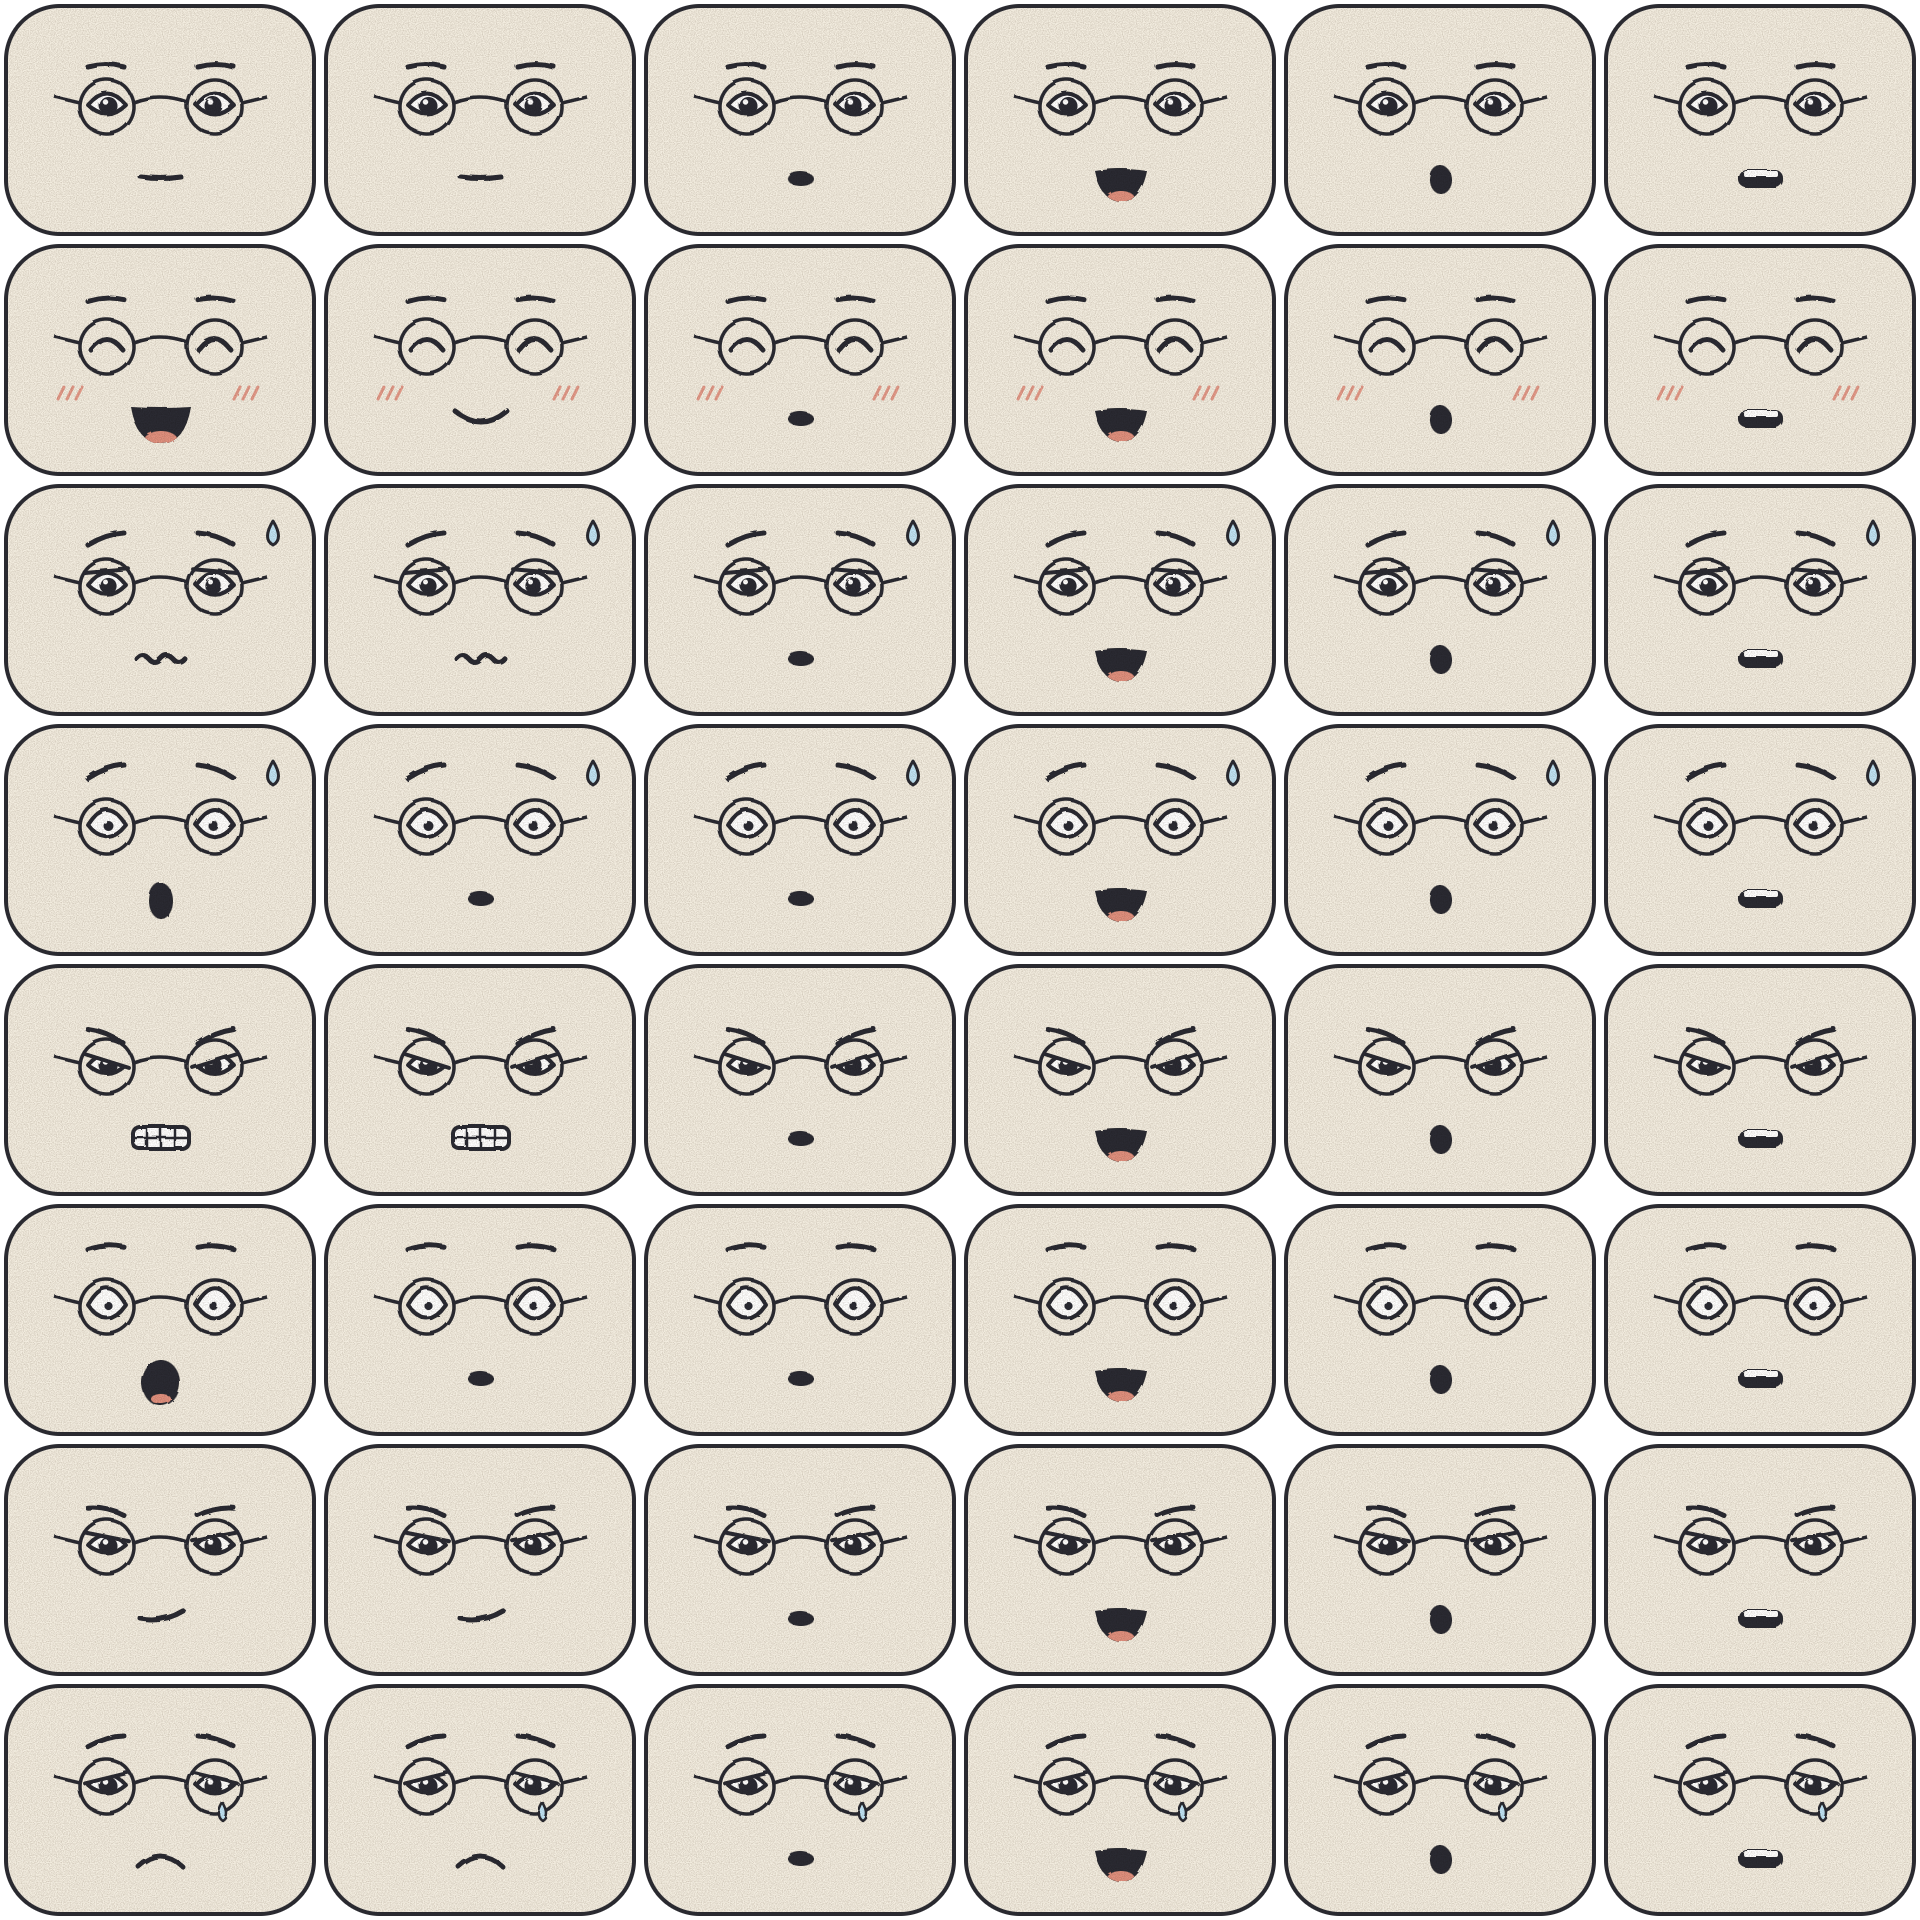
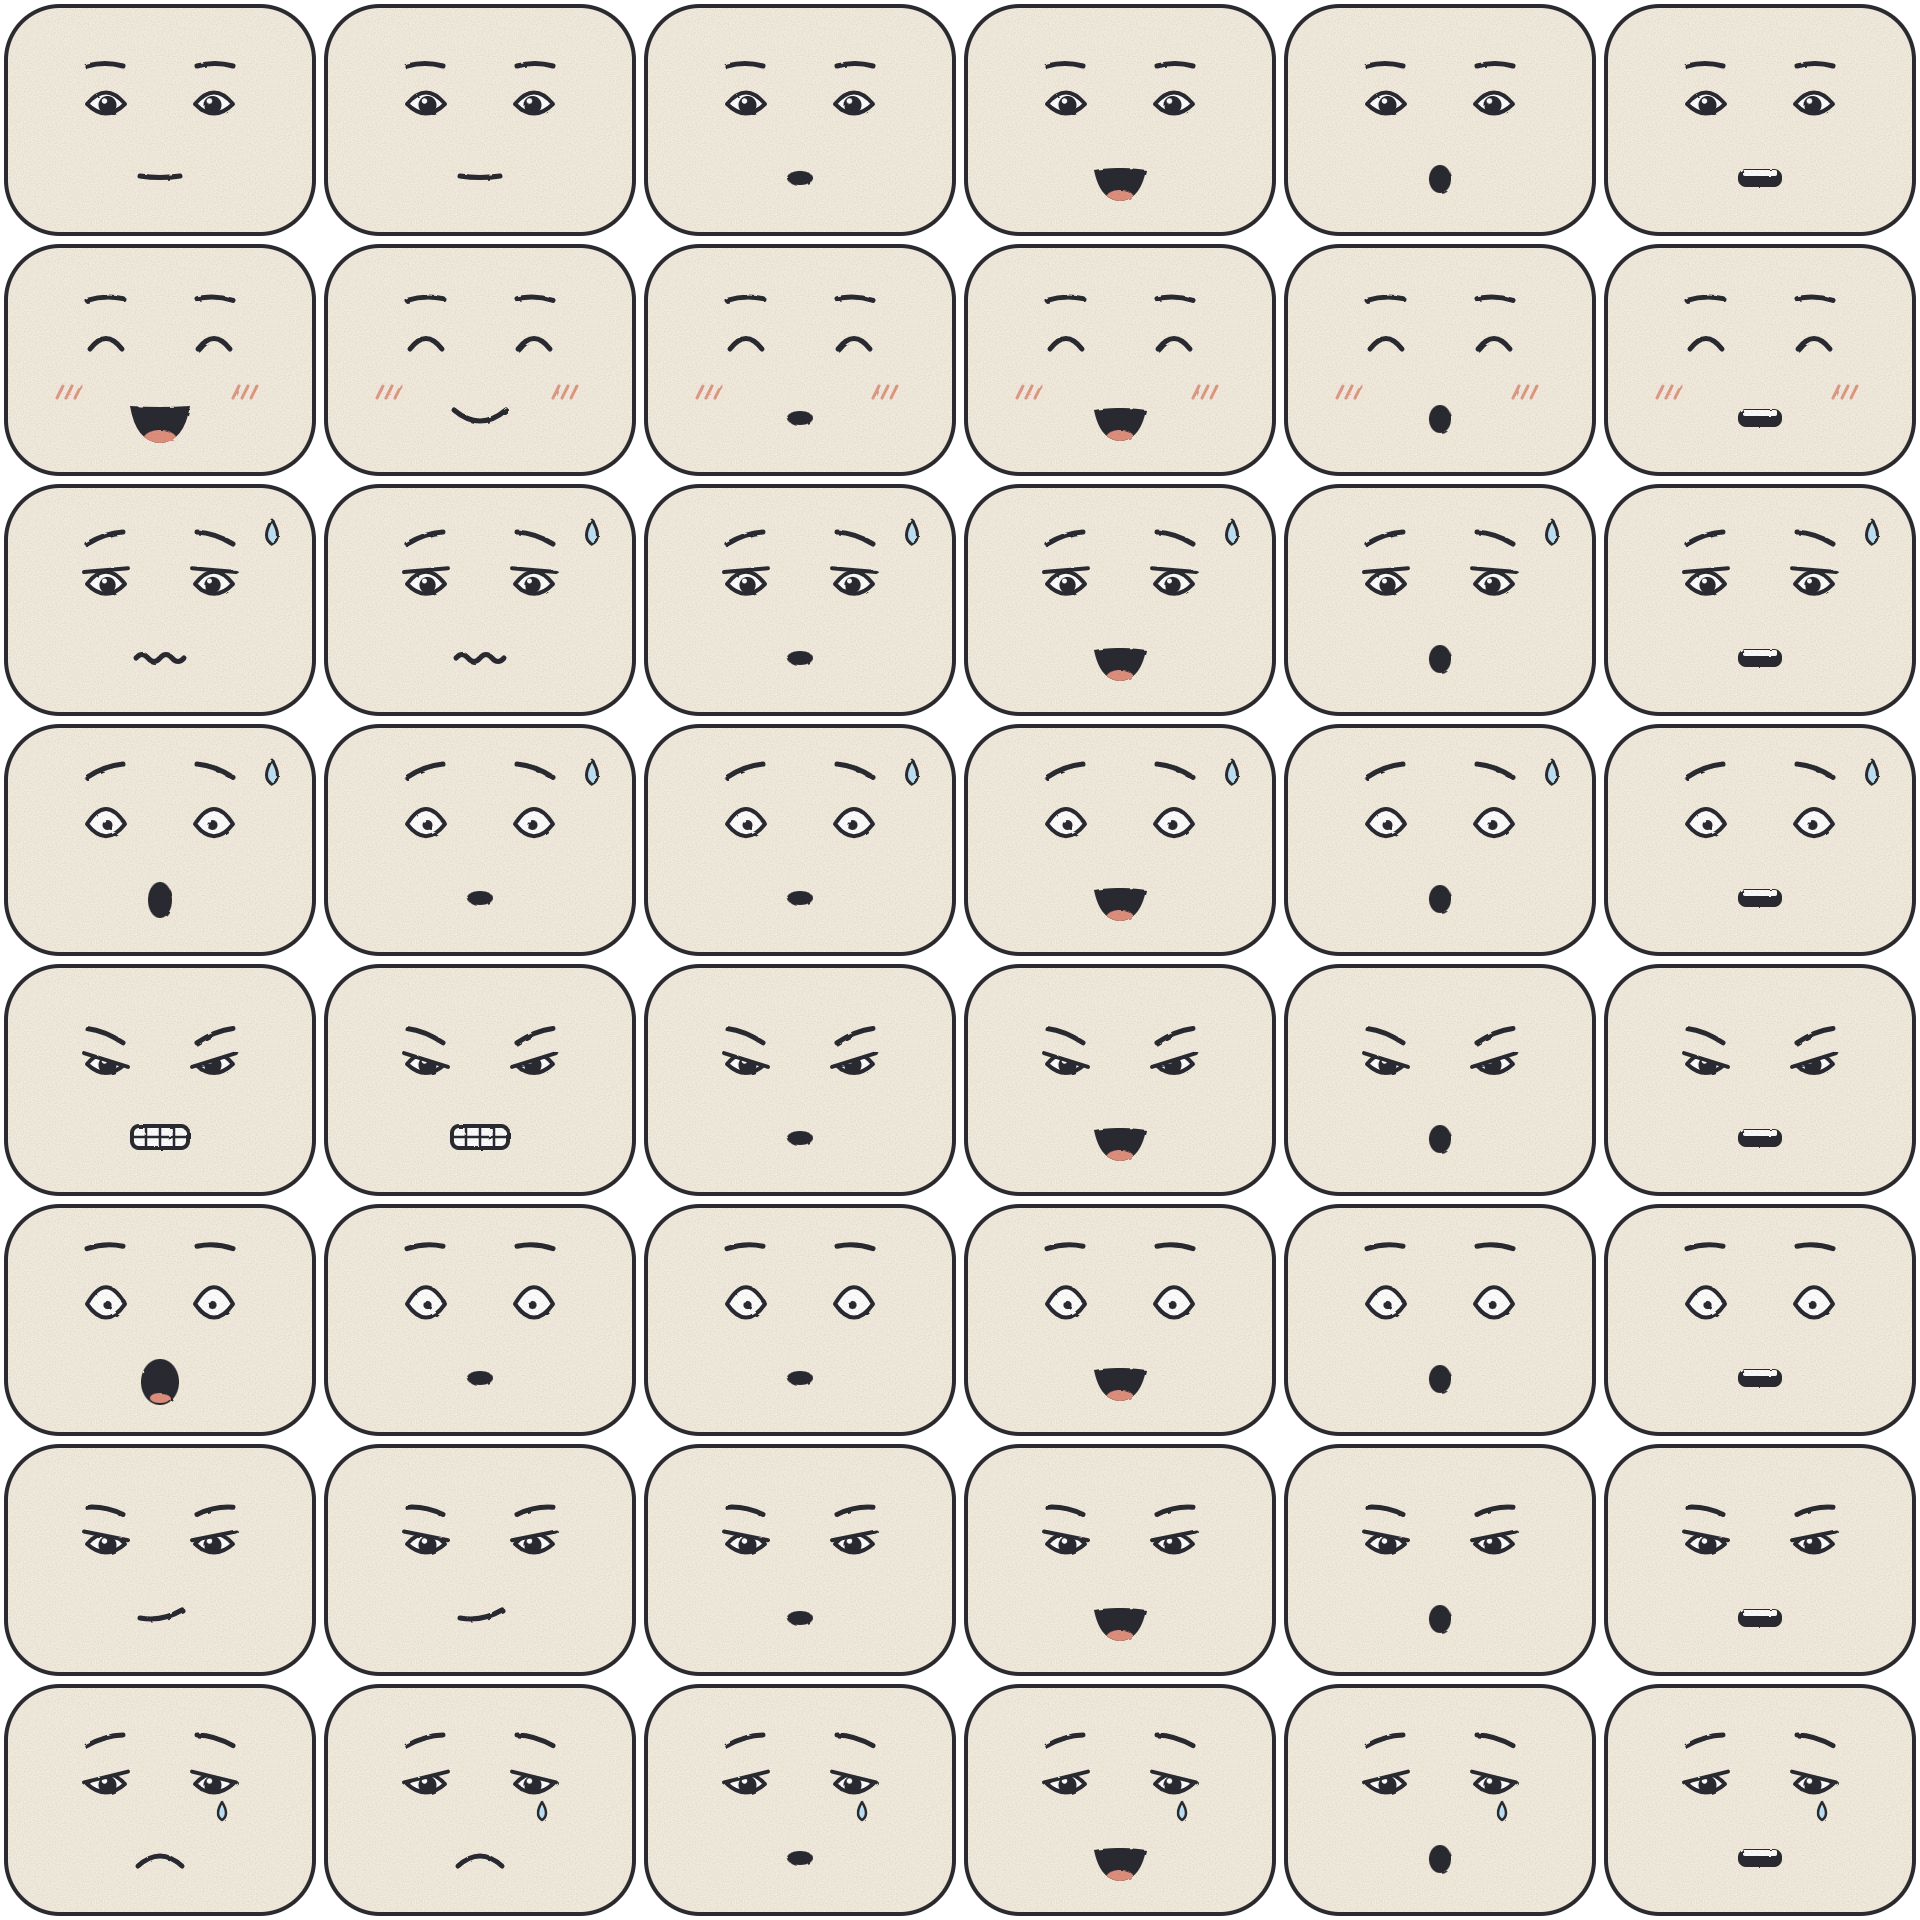
Face integration: relief, occlusion and sheen in face shader; 3D spectacles; cleaner ink lines

diff --git a/engine/look/faceShader.ts b/engine/look/faceShader.ts
@@ -28,10 +28,12 @@ const vert = /* glsl */ `
   varying vec2 vUv;
   varying vec3 vN;
   varying vec2 vPanel;
+  varying vec3 vWorld;
   uniform vec2 uvRepeat;
   uniform vec2 uvOffset;
   void main() {
     vPanel = uv;
+    vWorld = (modelMatrix * vec4(position, 1.0)).xyz;
     vUv = uv * uvRepeat + uvOffset;
     vN = normalize(mat3(modelMatrix) * normal);
     gl_Position = projectionMatrix * modelViewMatrix * vec4(position, 1.0);
@@ -49,9 +51,29 @@ const frag = /* glsl */ `
   uniform float glow;
   uniform float hatch;
   uniform float hatchDensity;
+  uniform vec2 texel;        // size of one sprite-sheet pixel in uv
+  uniform float relief;      // how deep the drawn features are pressed into the face
+  uniform float occlusion;   // soft shadow around features (eye sockets, mouth)
+  uniform float sheen;       // soft surface highlight
   varying vec2 vUv;
   varying vec3 vN;
   varying vec2 vPanel;
+  varying vec3 vWorld;
+
+  // 1 where there is ink (dark drawing), 0 on bare paper
+  float inkAt(vec2 uv) {
+    vec4 t = texture2D(map, uv);
+    return clamp((0.85 - dot(t.rgb, vec3(0.3333))) * 1.6, 0.0, 1.0) * step(0.5, t.a);
+  }
+  // softened ink (gives the pressed-in features a rounded bevel)
+  float softInk(vec2 uv) {
+    float s = 0.0;
+    s += inkAt(uv + texel * vec2( 1.5,  0.0));
+    s += inkAt(uv + texel * vec2(-1.5,  0.0));
+    s += inkAt(uv + texel * vec2( 0.0,  1.5));
+    s += inkAt(uv + texel * vec2( 0.0, -1.5));
+    return (s + inkAt(uv) * 2.0) / 6.0;
+  }
 
   float lines(float v, float th) {
     float d = abs(fract(v) - 0.5);
@@ -67,6 +89,44 @@ const frag = /* glsl */ `
     float lit = smoothstep(-0.02, 0.12, ndl);          // crisp cartoon terminator
     vec3 light = ambient + lightColor * (0.35 + 0.65 * lit);
     vec3 col = c.rgb * light * (1.0 - 0.1 * (1.0 - lit));
+
+    if (useMap) {
+      // ── make the drawing part of the face, not a sticker on it ──
+      // 1) relief: features are pressed slightly into the surface (bump from the drawing)
+      float d = 3.0;
+      float hx = softInk(vUv + vec2(texel.x * d, 0.0)) - softInk(vUv - vec2(texel.x * d, 0.0));
+      float hy = softInk(vUv + vec2(0.0, texel.y * d)) - softInk(vUv - vec2(0.0, texel.y * d));
+      vec3 dp1 = dFdx(vWorld), dp2 = dFdy(vWorld);
+      vec2 du1 = dFdx(vPanel), du2 = dFdy(vPanel);
+      vec3 dp2perp = cross(dp2, n), dp1perp = cross(n, dp1);
+      vec3 T = dp2perp * du1.x + dp1perp * du2.x;
+      vec3 B = dp2perp * du1.y + dp1perp * du2.y;
+      float im = inversesqrt(max(max(dot(T, T), dot(B, B)), 1e-12));
+      vec3 nb = normalize(n + relief * (hx * T * im + hy * B * im));
+      vec3 L = normalize(lightDir);
+      float detail = dot(nb, L) - dot(n, L);            // light/shadow on the feature edges only
+      col *= 1.0 + (detail > 0.0 ? detail * 0.35 : detail * 1.2);   // soft bevel, no bright halo
+      // 2) occlusion: paper darkens softly around eyes, brows and mouth
+      float occ = 0.0;
+      for (int i = 0; i < 8; i++) {
+        float a = float(i) * 0.7854;
+        occ += inkAt(vUv + texel * 9.0 * vec2(cos(a), sin(a)));
+      }
+      occ /= 8.0;
+      float here = inkAt(vUv);
+      col *= 1.0 - occlusion * occ * (1.0 - here);
+      // open mouth / dark areas read as depth: slightly deeper toward their top edge
+      col *= 1.0 - 0.25 * here * clamp(inkAt(vUv + vec2(0.0, texel.y * 6.0)), 0.0, 1.0);
+      // 3) sheen: one soft highlight that moves with the light, shared with the head
+      vec3 V = normalize(cameraPosition - vWorld);
+      float sp = pow(max(dot(nb, normalize(L + V)), 0.0), 36.0);
+      col += lightColor * sp * sheen * lit;
+    } else {
+      vec3 L = normalize(lightDir);
+      vec3 V = normalize(cameraPosition - vWorld);
+      float sp = pow(max(dot(n, normalize(L + V)), 0.0), 36.0);
+      col += lightColor * sp * sheen * lit;
+    }
 
     if (hatch > 0.5) {
       // two hatch layers in panel space: light side clean, terminator single, deep shadow cross
@@ -107,6 +167,10 @@ export const makeInkPaperMaterial = (opts: { map?: THREE.Texture | null; paper: 
       glow: { value: 0 },
       hatch: { value: 1 },
       hatchDensity: { value: opts.hatchDensity ?? 34 },
+      texel: { value: new THREE.Vector2(1 / 1920, 1 / 1920) },
+      relief: { value: style.face.relief },
+      occlusion: { value: style.face.occlusion },
+      sheen: { value: style.face.sheen },
     },
   });
 

diff --git a/engine/characters/Character.tsx b/engine/characters/Character.tsx
@@ -4,7 +4,7 @@ import { useStaticTexture } from "../assets";
 import { applySceneLight, makeInkPaperMaterial, useFaceLook, useSceneLight } from "../look/faceShader";
 import { style, Toon } from "../look/style";
 import { CharacterDef } from "./bible";
-import { cellUV, Expression, faceSheetPath, FaceVariant, MouthSlot } from "./face";
+import { cellUV, Expression, eyeCellPos, faceSheetPath, FaceVariant, MouthSlot } from "./face";
 
 // ─────────────────────────────────────────────────────────────────────────────
 // Chibi character, v0.2 look: big round head carrying a drawn paper face card,
@@ -115,6 +115,54 @@ const Head: React.FC<{ sheet: string; expression: Expression; mouth: MouthSlot }
           <meshBasicMaterial map={rimTex} color={style.ink.ink} alphaTest={0.5} />
         </mesh>
       )}
+    </group>
+  );
+};
+
+// ─── 3D wire spectacles, sitting on the face (not drawn on it) ──────────────
+const cellToPanel = (px: number, py: number) => ({
+  x: (px / style.face.cellW - 0.5) * F.panelW,
+  y: (0.5 - py / style.face.cellH) * F.panelH + PANEL_YOFF,
+});
+const along = (a: THREE.Vector3, b: THREE.Vector3) => {
+  const d = b.clone().sub(a);
+  const q = new THREE.Quaternion().setFromUnitVectors(new THREE.Vector3(0, 1, 0), d.clone().normalize());
+  const e = new THREE.Euler().setFromQuaternion(q);
+  return { mid: a.clone().add(b).multiplyScalar(0.5), len: d.length(), rot: [e.x, e.y, e.z] as [number, number, number] };
+};
+const Spectacles: React.FC<{ variant: FaceVariant }> = ({ variant }) => {
+  const parts = useMemo(() => {
+    const e = eyeCellPos(variant);
+    const r3 = (e.ringR / style.face.cellW) * F.panelW;
+    const R = HR + 0.05;
+    const rings = ([-1, 1] as const).map((sd) => {
+      const p = cellToPanel(style.face.cellW / 2 + sd * e.dx, e.y);
+      const z = Math.sqrt(Math.max(R * R - p.x * p.x - p.y * p.y, 0));
+      const pos = new THREE.Vector3(p.x, p.y, z);
+      const q = new THREE.Quaternion().setFromUnitVectors(new THREE.Vector3(0, 0, 1), pos.clone().normalize());
+      const rot = new THREE.Euler().setFromQuaternion(q);
+      const inner = new THREE.Vector3(-sd * r3, 0, 0).applyQuaternion(q).add(pos);
+      const outer = new THREE.Vector3(sd * r3, 0.01, 0).applyQuaternion(q).add(pos);
+      const ear = new THREE.Vector3(sd * (HR + 0.015), p.y + 0.03, -0.12);
+      return { pos, rot: [rot.x, rot.y, rot.z] as [number, number, number], inner, outer, ear };
+    });
+    const bridgeTop = rings[0].inner.clone().add(rings[1].inner).multiplyScalar(0.5).add(new THREE.Vector3(0, 0.035, 0.012));
+    return { r3, rings, bridge: [along(rings[0].inner, bridgeTop), along(bridgeTop, rings[1].inner)], temples: rings.map((g) => along(g.outer, g.ear)) };
+  }, [variant]);
+  return (
+    <group>
+      {parts.rings.map((g, i) => (
+        <mesh key={i} position={g.pos} rotation={g.rot} castShadow>
+          <torusGeometry args={[parts.r3, 0.013, 10, 40]} />
+          <Toon color="#24252B" kind="metal" roughness={0.35} />
+        </mesh>
+      ))}
+      {[...parts.bridge, ...parts.temples].map((s, i) => (
+        <mesh key={`s${i}`} position={s.mid} rotation={s.rot} castShadow>
+          <cylinderGeometry args={[0.011, 0.011, s.len, 8]} />
+          <Toon color="#24252B" kind="metal" roughness={0.35} />
+        </mesh>
+      ))}
     </group>
   );
 };
@@ -383,6 +431,7 @@ export const Character: React.FC<CharacterProps> = ({ def, expression = "neutral
         {def.prop === "shovel" && <ShovelOnShoulder />}
         <group position={[0, HEAD_Y, 0]} rotation={[pose.headNod ?? 0, pose.headYaw ?? 0, pose.headTilt ?? 0]}>
           <Head sheet={faceSheetPath(def.id, v)} expression={expression} mouth={mouth} />
+          {def.faceExtras.glasses && <Spectacles variant={v} />}
           <Headgear g={def.headgear} />
         </group>
       </group>

diff --git a/src/compositions/FaceSheet.tsx b/src/compositions/FaceSheet.tsx
@@ -1,4 +1,4 @@
-import { AbsoluteFill } from "remotion";
+import { AbsoluteFill } from "remotion";
 import { BIBLE } from "../../engine/characters/bible";
 import { FaceSheetSvg, FaceVariant } from "../../engine/characters/face";
 
@@ -10,7 +10,8 @@ export const FaceSheet: React.FC<FaceSheetProps> = ({ character, variant }) => {
   const def = BIBLE[character];
   return (
     <AbsoluteFill style={{ backgroundColor: "transparent" }}>
-      <FaceSheetSvg variant={variant} extras={def?.faceExtras} />
+      {/* glasses are a real 3D prop on the face, so they are not drawn into the sheet */}
+      <FaceSheetSvg variant={variant} extras={{ ...def?.faceExtras, glasses: false }} />
     </AbsoluteFill>
   );
 };

diff --git a/engine/characters/face.tsx b/engine/characters/face.tsx
@@ -386,4 +386,10 @@ export const cellUV = (expression: Expression, mouth: MouthSlot) => {
   };
 };
 
+// Eye centre + glasses ring radius in cell pixels (for 3D props placed on the face).
+export const eyeCellPos = (v: FaceVariant) => {
+  const s = LOOK[v].scale;
+  return { dx: EYE_DX * s, y: 128 + (EYE_Y + 2 - 128) * s, ringR: 27 * s };
+};
+
 export const faceSheetPath = (characterId: string, variant: FaceVariant) => `characters/faces/${characterId}-${variant}.png`;

diff --git a/PROGRESS.md b/PROGRESS.md
@@ -14,6 +14,11 @@ bold face, realistic materials, strong lens blur) "with a unique addition". Buil
   hatch = pen crosshatching on the shadow side of head/face that follows the real light;
   rim = face is a raised paper card with an ink edge. Review: `out/look2/options-4.png`
   (plain / hatch / rim / both) and `out/look2/presets-4.png` (both, in 4 presets).
+- **Owner chose BOTH** (hatch + rim). Feedback "drawing feels drawn on the face" → added:
+  relief (features pressed slightly into the surface, lit by the scene), soft occlusion around
+  features, a shared surface sheen, cleaner lines (wobble 0.6, grain 0.1), and the Inspector's
+  glasses are now a real 3D wire prop on the face. Review: `out/look3/compare-face.png`
+  (before | after) and `out/look3/after-4.png`.
 - Not yet updated to v0.2 framing: `StyleTest`, `FaceVariants`, `Turnaround` compositions.
 
 ### GATE 2: owner decisions needed (earlier list; face variant answered: A)
